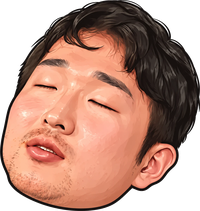
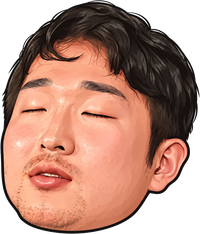
만취범: face turned upright and centred, a short neck, PERFECT line '남자는 원샷~! 🍺'

diff --git a/index.html b/index.html
@@ -165,7 +165,7 @@ leesin:{name:'리신범',nick:'리신범',kit:{name:'BEOM',color:'#ffd166'},trai
 percival:{name:'퍼시벌',nick:'퍼시벌',kit:{name:'PERCIVAL',color:'#d9d9d9'},face:'percival',vsHand:.1,faceFit:{h:49,b:27,cx:.42},skin:'#c99474',skinShade:'#a26d52',lefty:true,serveEdge:.25,ceremony:'아엠 퍼시벌~',squatCheer:true,split:true,stanceK:1.1,crouchK:.1,shirt:'#a4a6aa',sleeve:'#a4a6aa',tee:true,frontName:true,collar:'#8a8c91',pants:'#17171a',shorts:true,shortsLen:.8,wristband:true,socks:true,hair:'#141414'},
 // 만취범, from the user's art: tousled black hair, flushed cheeks, eyes shut, stubble - an office worker straight from
 // the after-party: rumpled white shirt, loosened red tie, dark slacks. Sways all the time; every hit is a gamble.
-drunk:{name:'만취범',nick:'만취범',kit:{name:'MANCHWI',color:'#ff8a8a'},face:'drunk',faceFit:{h:46,b:29,cx:.4},drunk:true,ceremony:'딸꾹! 한 잔 더~ 🍺',split:true,stanceK:1.15,crouchK:.14,shirt:'#f1f0ea',sleeve:'#f1f0ea',collar:'#d8d6cc',tie:'#c8323a',pants:'#2a2c36',hair:'#1b1512',skin:'#f0b398',skinShade:'#d88f74'},
+drunk:{name:'만취범',nick:'만취범',kit:{name:'MANCHWI',color:'#ff8a8a'},face:'drunk',faceFit:{h:48,b:23,cx:.37},drunk:true,ceremony:'남자는 원샷~! 🍺',split:true,stanceK:1.15,crouchK:.14,shirt:'#f1f0ea',sleeve:'#f1f0ea',collar:'#d8d6cc',tie:'#c8323a',pants:'#2a2c36',hair:'#1b1512',skin:'#f0b398',skinShade:'#d88f74'},
 plain:{name:'파란 선수',shirt:'#2f6fd6',sleeve:'#2f6fd6',pants:'#33404f',hair:'#3a2b22'},
 ai:{name:'빨간 선수',shirt:'#d6453d',sleeve:'#d6453d',pants:'#33404f',hair:'#3a2b22'}};
 // Shakehand blade and rubber. speed / spin multiply the shot, err is the extra chance a good stroke still misses (control).
